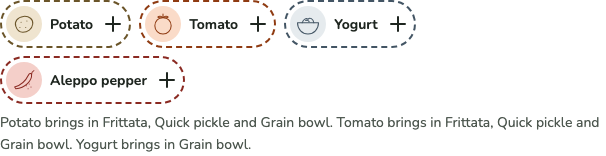
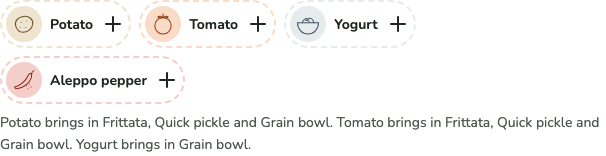
Pairs well chips: edge in the colour of the Ingredient's circle (#51)

diff --git a/src/components/Chip.module.css b/src/components/Chip.module.css
@@ -20,9 +20,9 @@
   background: transparent;
 }
 
-/* Not in the basket yet: no wash, an edge in the Ingredient's own colour. */
+/* Not in the basket yet: no wash, an edge in the colour of the drawing's circle. */
 .hued.dashed {
-  border-color: var(--stroke);
+  border-color: var(--wash);
 }
 
 .chip:has(> :first-child:not(.label)) {

diff --git a/docs/journal/0023-pairs-well.md b/docs/journal/0023-pairs-well.md
@@ -15,7 +15,7 @@ The author chose each of these from options.
 
 - **Which Ingredients:** the best-pairing ones, whether or not they bring in a new dish. Ranked by how many of the basket's Ingredients each pairs with, then how many dishes it would bring in, then by name. Ingredients already in the basket are left out.
 - **How they look:** up to four compact chips in a row under the basket's Ingredients. Each chip shows the drawing, the name and a plus sign. A line under the row says which dishes each would bring in.
-  - After a first look, the author asked for no wash and a dashed edge in each Ingredient's colour, and no visible "Pairs well" label. The row keeps "Pairs well" as its name for screen readers. Under the pointer a chip takes its wash.
+  - After a first look, the author asked for no wash and a dashed edge in the colour of each Ingredient's circle, and no visible "Pairs well" label. The row keeps "Pairs well" as its name for screen readers. Under the pointer a chip takes its wash.
 - **Tracking:** a separate ticket, built on the #50 branch, since it relies on the fit rule.
 
 Defaults, not asked:
